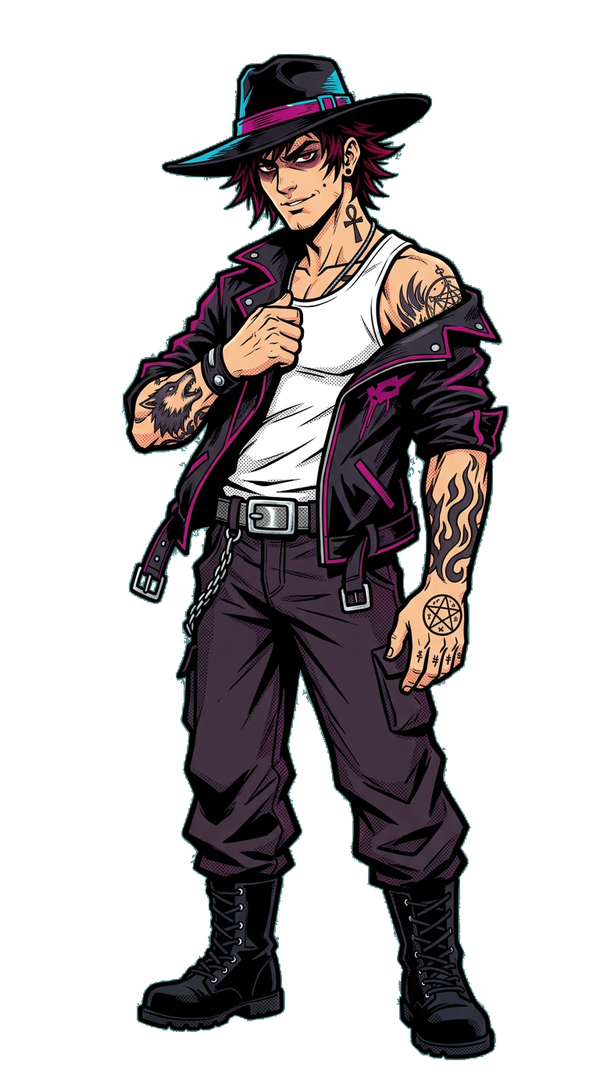
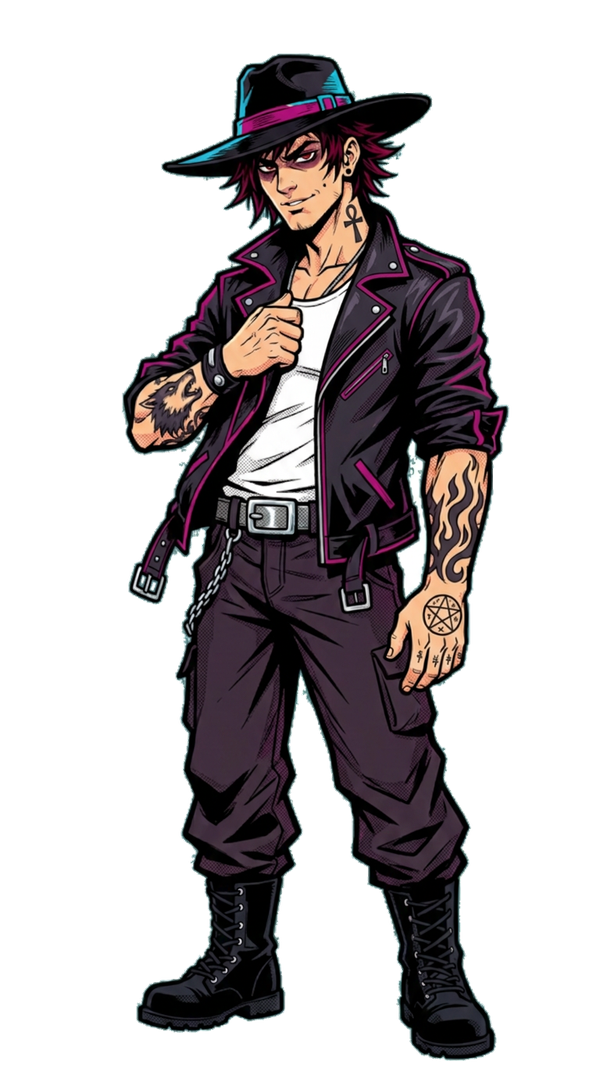
art: corregir showcases Original y Rapture

diff --git a/docs/ATUENDOS_EN_PROGRESO.md b/docs/ATUENDOS_EN_PROGRESO.md
@@ -456,3 +456,10 @@ QA `test_menu_new_flow` y `test_menu_scenes` PASS (nota: la animación de fondo 
 - **Extras:** el archivo visual presenta tres fotogramas existentes con pies editoriales y ocho fichas de atuendo con sus showcases reales, nombres y descripciones del catálogo. Es una cuadrícula estática, no un carrusel; imágenes lazy-loaded y tarjetas adaptadas a móvil.
 - **Aspectos:** las ocho tarjetas del camerino muestran mini-retratos del protagonista generados desde las vistas de retrato existentes; el héroe de la derecha continúa actualizándose al equipar cada aspecto.
 - **QA:** `test_menu_visuals` PASS (carga normal/reducida, cinco fondos, ocho retratos, 3 fotogramas y 8 fichas Extras, sin errores); `test_menu_new_flow`, `test_menu_scenes`, `test_outfit_preview` PASS; `test_menu_respuesta` PASS 52/52. Capturas de revisión en `.cache/review/menu_visuals/`.
+
+## Revisión de showcases: Original y Rapture
+
+- **Original:** se corrigió `assets/characters/outfits/original/showcase.png` para que la chaqueta cubra ambos hombros y las mangas asienten normalmente. El sigilo del hombro queda oculto bajo la tela, sin tatuajes sobre ropa.
+- **Rapture:** se reemplazó el showcase de medio cuerpo por una ilustración de cuerpo entero, con sombrero, camisa clara, chaleco azul marino con ribete magenta, tirantes, pantalón y botas. En el selector ahora se ven las botas y la silueta completa.
+- Se conservaron copias exactas de los dos showcases anteriores en `assets/characters/outfits/concepts/archive/`; no se modificaron Street Art ni Fight Club, cuyas vistas revisadas ya corresponden a sus atuendos.
+- `test_outfit_preview.js`, `test_outfit_portraits.js` y `test_menu_visuals.js`: PASS; comprobación visual del selector con Rapture equipable y showcase completo, y de Extras con las ocho fichas. Fight Club conserva vendas, torso descubierto, pantalón corto con vivo magenta y pies descalzos; Street Art mantiene su chaqueta intervenida. No se tocaron sprites de juego ni mecánicas.
